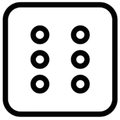
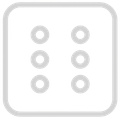
new navbar

diff --git a/static/stylesheet.css b/static/stylesheet.css
@@ -69,14 +69,31 @@ p {
     font-family: 'Elms';
 }
 
-input[type="text"], input[type="email"], input[type="password"], input[type="number"], textarea {
+label {
+    font-family: Elms;
+    font-style: oblique;
+}
+
+input[type="text"], input[type="email"], input[type="password"], input[type="number"], input[type="date"], textarea {
     border: 2px;
     border-color: #993e34; 
     border-style: solid;
     border-radius: 2px;       
     padding: 5px;
     font-family: 'Elms';
-    font-style: italic;          
+    width: 100%;
+}
+
+a {
+    color: rgb(108, 8, 8);
+    font-style: italic;
+    text-decoration: underline;
+}
+
+a:hover {
+    color: rgb(0, 0, 0);
+    font-style: italic;
+    text-decoration: underline;
 }
 
 .fancy_p {
@@ -144,10 +161,11 @@ input[type="text"], input[type="email"], input[type="password"], input[type="num
 .login {
     display: flex;
     align-items: center;
-    padding: 10px;
+    margin: 0;
 }
 
 .login img {
+    width: 300px;
     border-right: 60px 
     solid #000000;
     max-width: 20%;
@@ -157,48 +175,46 @@ input[type="text"], input[type="email"], input[type="password"], input[type="num
     width: auto;
 }
 
+.login body {
+    padding: 0px;
+    margin: 0px;
+}
 
 
-.btn {
+.btn, button {
     color: rgb(0, 0, 0);
     border: 0;
     background-color: rgb(213, 55, 55);
-    padding-right: 3%; padding-left: 3%; padding-bottom: 1%; padding-top: 1%;
+    text-decoration: none;
+    font-family: "Elms";
+    font-style: italic;
+    border-radius: 10px;
+    font-size: 20px;
+}
+
+.btn:hover, button:hover {
+    color: rgb(248, 214, 175);
+    background-color: rgb(49, 5, 5);
     text-decoration: none;
     font-style: italic;
     border-radius: 10px;
     font-size: 20px;
+}
+
+.btn {
+    padding-right: 3%; padding-left: 3%; padding-bottom: 1%; padding-top: 1%;
 }
 
 .btn:hover {
-    color: rgb(248, 214, 175);
-    background-color: rgb(49, 5, 5);
     padding-right: 3%; padding-left: 3%; padding-bottom: 1%; padding-top: 1%;
-    text-decoration: none;
-    font-style: italic;
-    border-radius: 10px;
-    font-size: 20px;
 } 
 
 button {
-    color: rgb(0, 0, 0);
-    border: 0;
-    background-color: rgb(213, 55, 55);
     padding-right: 10%; padding-left: 10%; padding-bottom: 3%; padding-top: 3%;
-    text-decoration: none;
-    font-style: italic;
-    border-radius: 10px;
-    font-size: 20px;
 }
 
 button:hover {
-    color: rgb(248, 214, 175);
-    background-color: rgb(49, 5, 5);
     padding-right: 10%; padding-left: 10%; padding-bottom: 3%; padding-top: 3%;
-    text-decoration: none;
-    font-style: italic;
-    border-radius: 10px;
-    font-size: 20px;
 }
 
 .form {
@@ -242,13 +258,16 @@ button:hover {
     width: auto;
     justify-self: center;
     padding: 12px;
-    background-color: rgb(115, 6, 6);
     justify-content: center;
     align-items: center;
     /* Done using website in credits */
-    background: #ffffff;
-    background: linear-gradient(90deg, rgba(255, 255, 255, 1) 0%, rgba(255, 255, 255, 1) 24%, rgba(255, 0, 0, 1) 48%, rgba(255, 255, 255, 1) 77%, rgba(255, 255, 255, 1) 98%);
 }
+
+.logoback {
+    background: #ffffff;
+    background: radial-gradient(circle, rgba(255, 255, 255, 1) 61%, rgba(245, 10, 10, 1) 76%, rgba(115, 6, 6, 1) 100%);
+}
+
 
 .logobig img {
     object-fit: cover;
@@ -348,3 +367,7 @@ nav {
     /* center form inputs in a column (if .form is a flex container) */
     /* .form { display: flex; flex-direction: column; align-items: center; gap: 0.6rem; } */
 }
+
+/* .timetable {
+
+} */

diff --git a/templates/homepage.html b/templates/homepage.html
@@ -8,9 +8,12 @@
 </head>
 <body class="homepage">
     <!-- <div class="navbar"> -->
+    <div class="logoback">
         <div class="logobig">
             <img src="{{ url_for('static', filename='images/logobig.png')}}" width="500" height="100"> 
         </div>
+    </div>
+
     <!-- </div> -->
 
     <!-- the navbar -->
@@ -21,7 +24,7 @@
         <div>
             <a href="{{ url_for('index')}}">
                 <div class="logosmall">
-                    <img src="{{ url_for('static', filename='images/logosmall.png')}}" width="50" height="50"> 
+                    <img src="{{ url_for('static', filename='images/logosmall.png')}}" width="30" height="30"> 
                 </div>
             </a>
         </div>
@@ -30,14 +33,14 @@
             {% if session.get('user_id') %}
                 <a href="{{ url_for('profile')}}">
                     <div class="navlinks">
-                        <img src="{{ url_for('static', filename='images/nav/profile.png')}}" width="50" height="50"> 
+                        <img src="{{ url_for('static', filename='images/nav/profile.png')}}" width="30" height="30"> 
                         Your profile
                     </div>
                 </a>
 
                 <a href="{{ url_for('notes')}}">
                     <div class="navlinks">
-                        <img src="{{ url_for('static', filename='images/nav/notes.png')}}" width="50" height="50"> 
+                        <img src="{{ url_for('static', filename='images/nav/note.png')}}" width="30" height="30"> 
                         Notes
                     </div>
                 </a>
@@ -45,28 +48,28 @@
             {% endif %}
             <a href="{{ url_for('notices')}}">
                 <div class="navlinks">
-                    <img src="{{ url_for('static', filename='images/nav/notice.png')}}" width="50" height="50"> 
+                    <img src="{{ url_for('static', filename='images/nav/bell.png')}}" width="30" height="30"> 
                     Notices
                 </div>
             </a>
 
             <a href="{{ url_for('view_chars')}}">
                 <div class="navlinks">
-                    <img src="{{ url_for('static', filename='images/logosmall.png')}}" width="50" height="50"> 
+                    <img src="{{ url_for('static', filename='images/nav/char.png')}}" width="30" height="30"> 
                     Characters
                 </div>
             </a>
 
             <a href="{{ url_for('dice')}}">
                 <div class="navlinks">
-                    <img src="{{ url_for('static', filename='images/logosmall.png')}}" width="50" height="50"> 
+                    <img src="{{ url_for('static', filename='images/nav/dice.png')}}" width="30" height="30"> 
                     Dice
                 </div>
             </a>
 
             <a href="{{ url_for('timetable')}}">
                 <div class="navlinks">
-                    <img src="{{ url_for('static', filename='images/nav/time.png')}}" width="50" height="50"> 
+                    <img src="{{ url_for('static', filename='images/nav/time.png')}}" width="30" height="30"> 
                     Timetable
                 </div>
             </a>

diff --git a/templates/login.html b/templates/login.html
@@ -7,34 +7,35 @@
     <link rel="stylesheet" href="{{ url_for('static', filename='stylesheet.css')}}">
 </head>
 
-<body>
+<body class="login">
 
     <div class="login">
-    <img class="loginimg" src="{{ url_for('static', filename='images/millionsslices.png')}}">
-        <div class="loginform">
-            <h2>
-                Login
-            </h2>
-                <form class="form" id="form">
-                    <div class="card" style="width: 20vw; height: 10vw; align-items: left; min-width: 300px; min-height: 150px;">
-                        <div style="display: flex; flex-direction: column; max-width: fit-content;">
-                            <label for="email">Email</label>
-                            <input type="email" id="email" name="email" required>
-                        </div>
-                        <div style="display: flex; flex-direction: column; max-width: fit-content;" >
-                            <label for="password">Password</label>
-                            <input type="password" id="password" name="password" required>
-                        </div>
-                    </div>
-                    <div>
-                        <input class="btn" type="submit" value="Let's Go!!">
-                    </div>
-                </form>
-                <h3>
-                    <a href="{{ url_for('signup') }}">Make an account</a>
-                </h3>
-        </div>
+        <img class="loginimg" src="{{ url_for('static', filename='images/millionsslices.png')}}">
     </div>
+    <div class="loginform">
+        <h2>
+            Login
+        </h2>
+            <form class="form" id="form">
+                <div class="card" style="width: 20vw; height: 10vw; align-items: left; min-width: 300px; min-height: 150px;">
+                    <div style="display: flex; flex-direction: column; max-width: fit-content;">
+                        <label for="email">Email</label>
+                        <input type="email" id="email" name="email" required>
+                    </div>
+                    <div style="display: flex; flex-direction: column; max-width: fit-content;" >
+                        <label for="password">Password</label>
+                        <input type="password" id="password" name="password" required>
+                    </div>
+                </div>
+                <div>
+                    <input class="btn" type="submit" value="Let's Go!!">
+                </div>
+            </form>
+            <h3>
+                <a href="{{ url_for('signup') }}">Make an account</a>
+            </h3>
+        </div>
+
 
 
 

diff --git a/templates/timetable.html b/templates/timetable.html
@@ -8,22 +8,7 @@
 </head>
 <body>
     <h1>Timetable</h1>
-<table>
-    <tr>
-        <th>Company</th>
-        <th>Contact</th>
-        <th>Country</th>
-    </tr>
-    <tr>
-        <td>Alfreds Futterkiste</td>
-        <td>Maria Anders</td>
-        <td>Germany</td>
-    </tr>
-    <tr>
-        <td>Centro comercial Moctezuma</td>
-        <td>Francisco Chang</td>
-        <td>Mexico</td>
-    </tr>
+
 </table>
     <h2>Usual timetable (by school weeks)</h2>
     <div id="no-sess">

diff --git a/templates/signup.html b/templates/signup.html
@@ -6,7 +6,7 @@
     <title>first time here?</title>
     <link rel="stylesheet" href="{{ url_for('static', filename='stylesheet.css')}}">
 </head>
-<body>
+<body class="login">
     
     <div class="login">
     <img src="{{ url_for('static', filename='images/millionsslices.png')}}">
